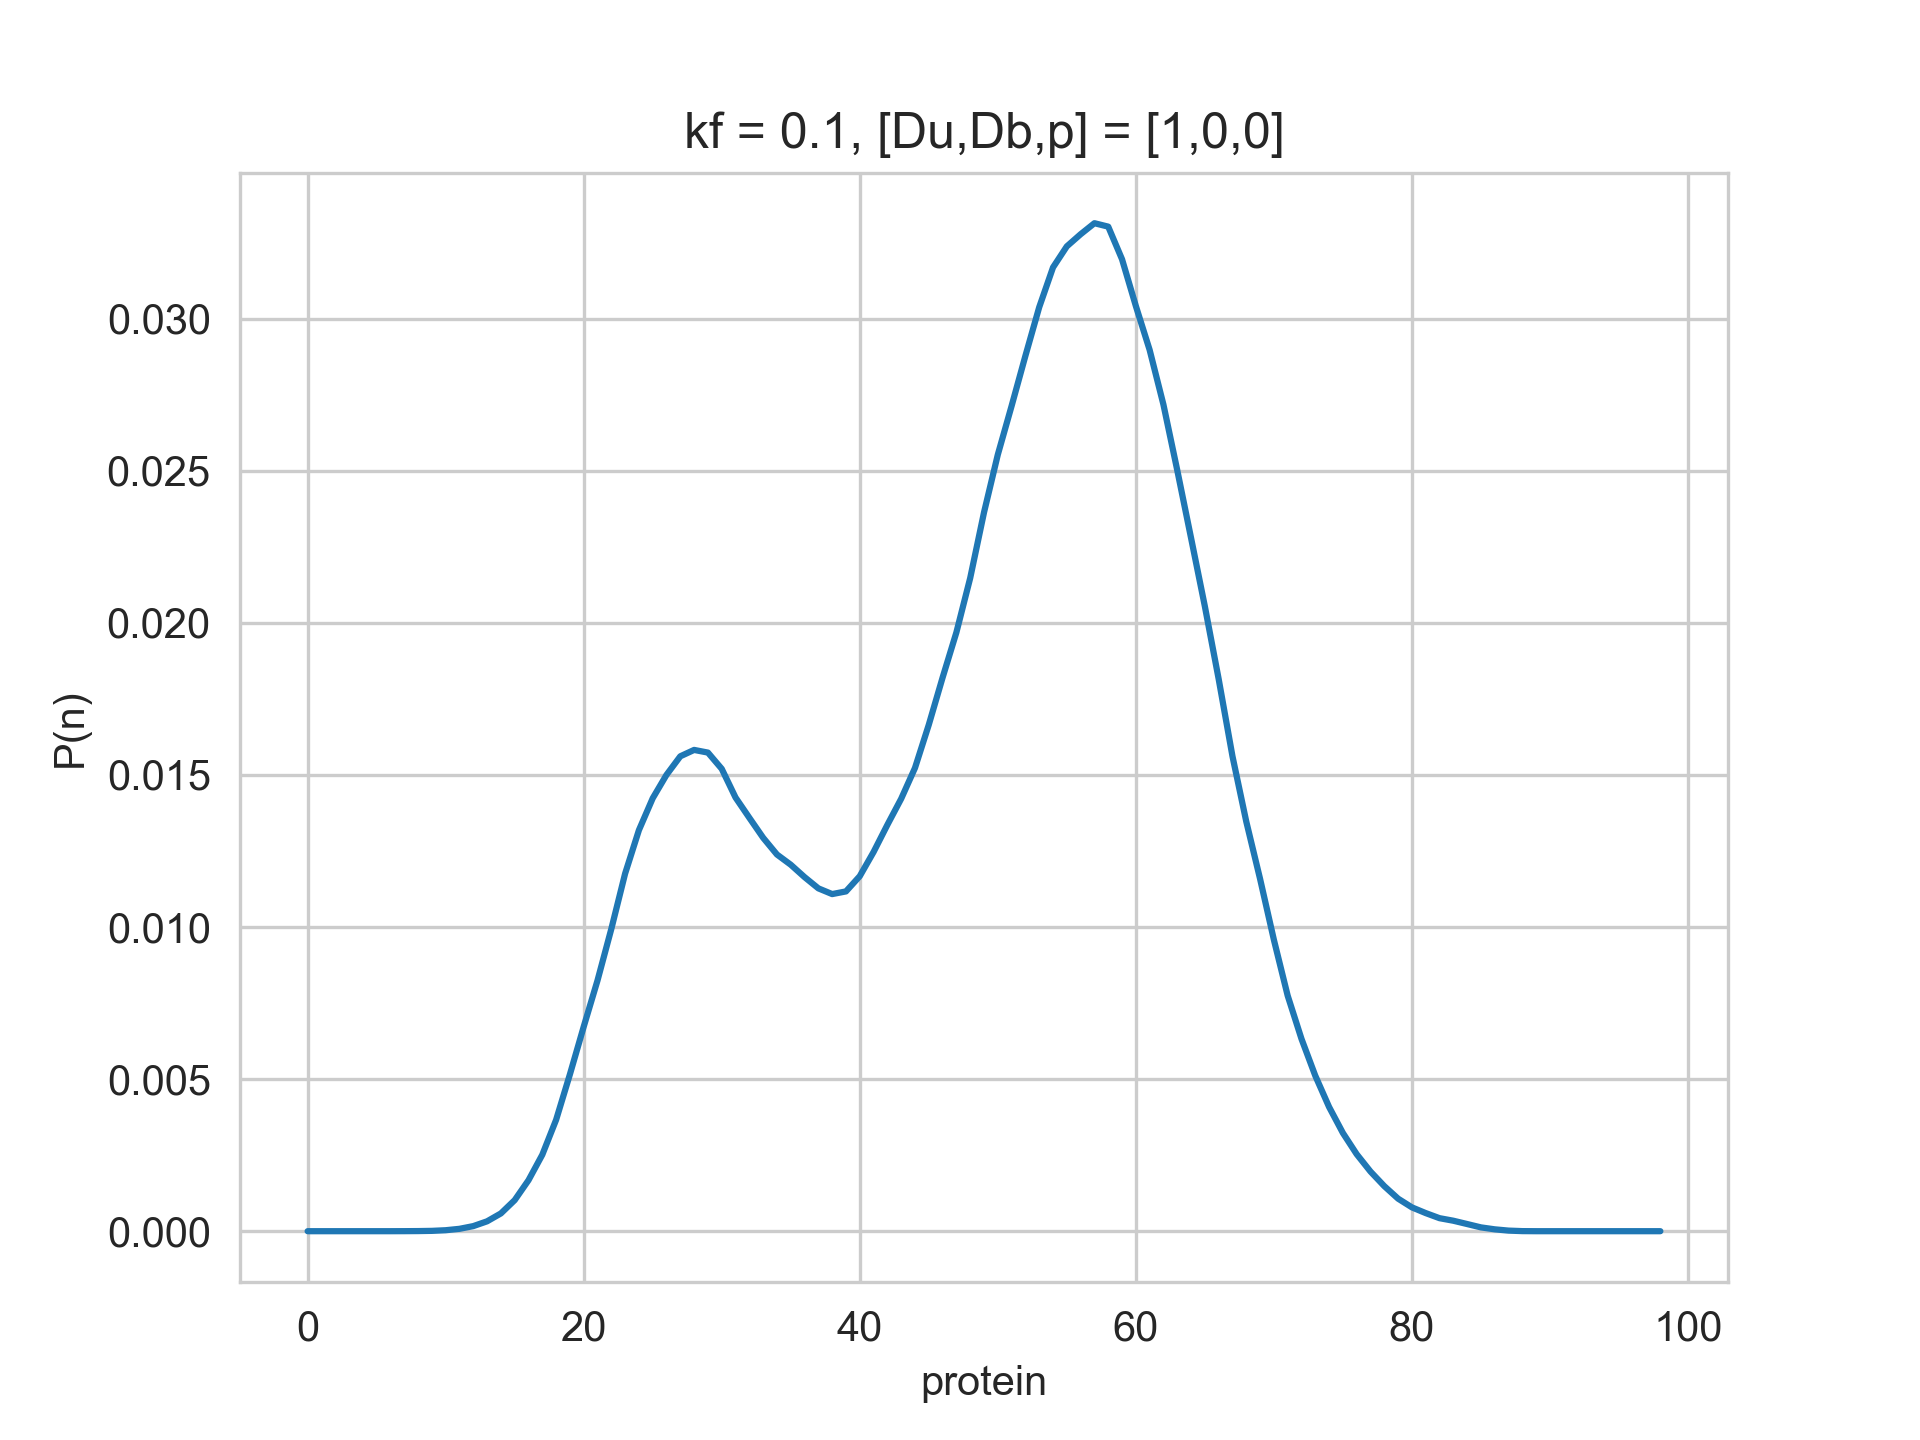
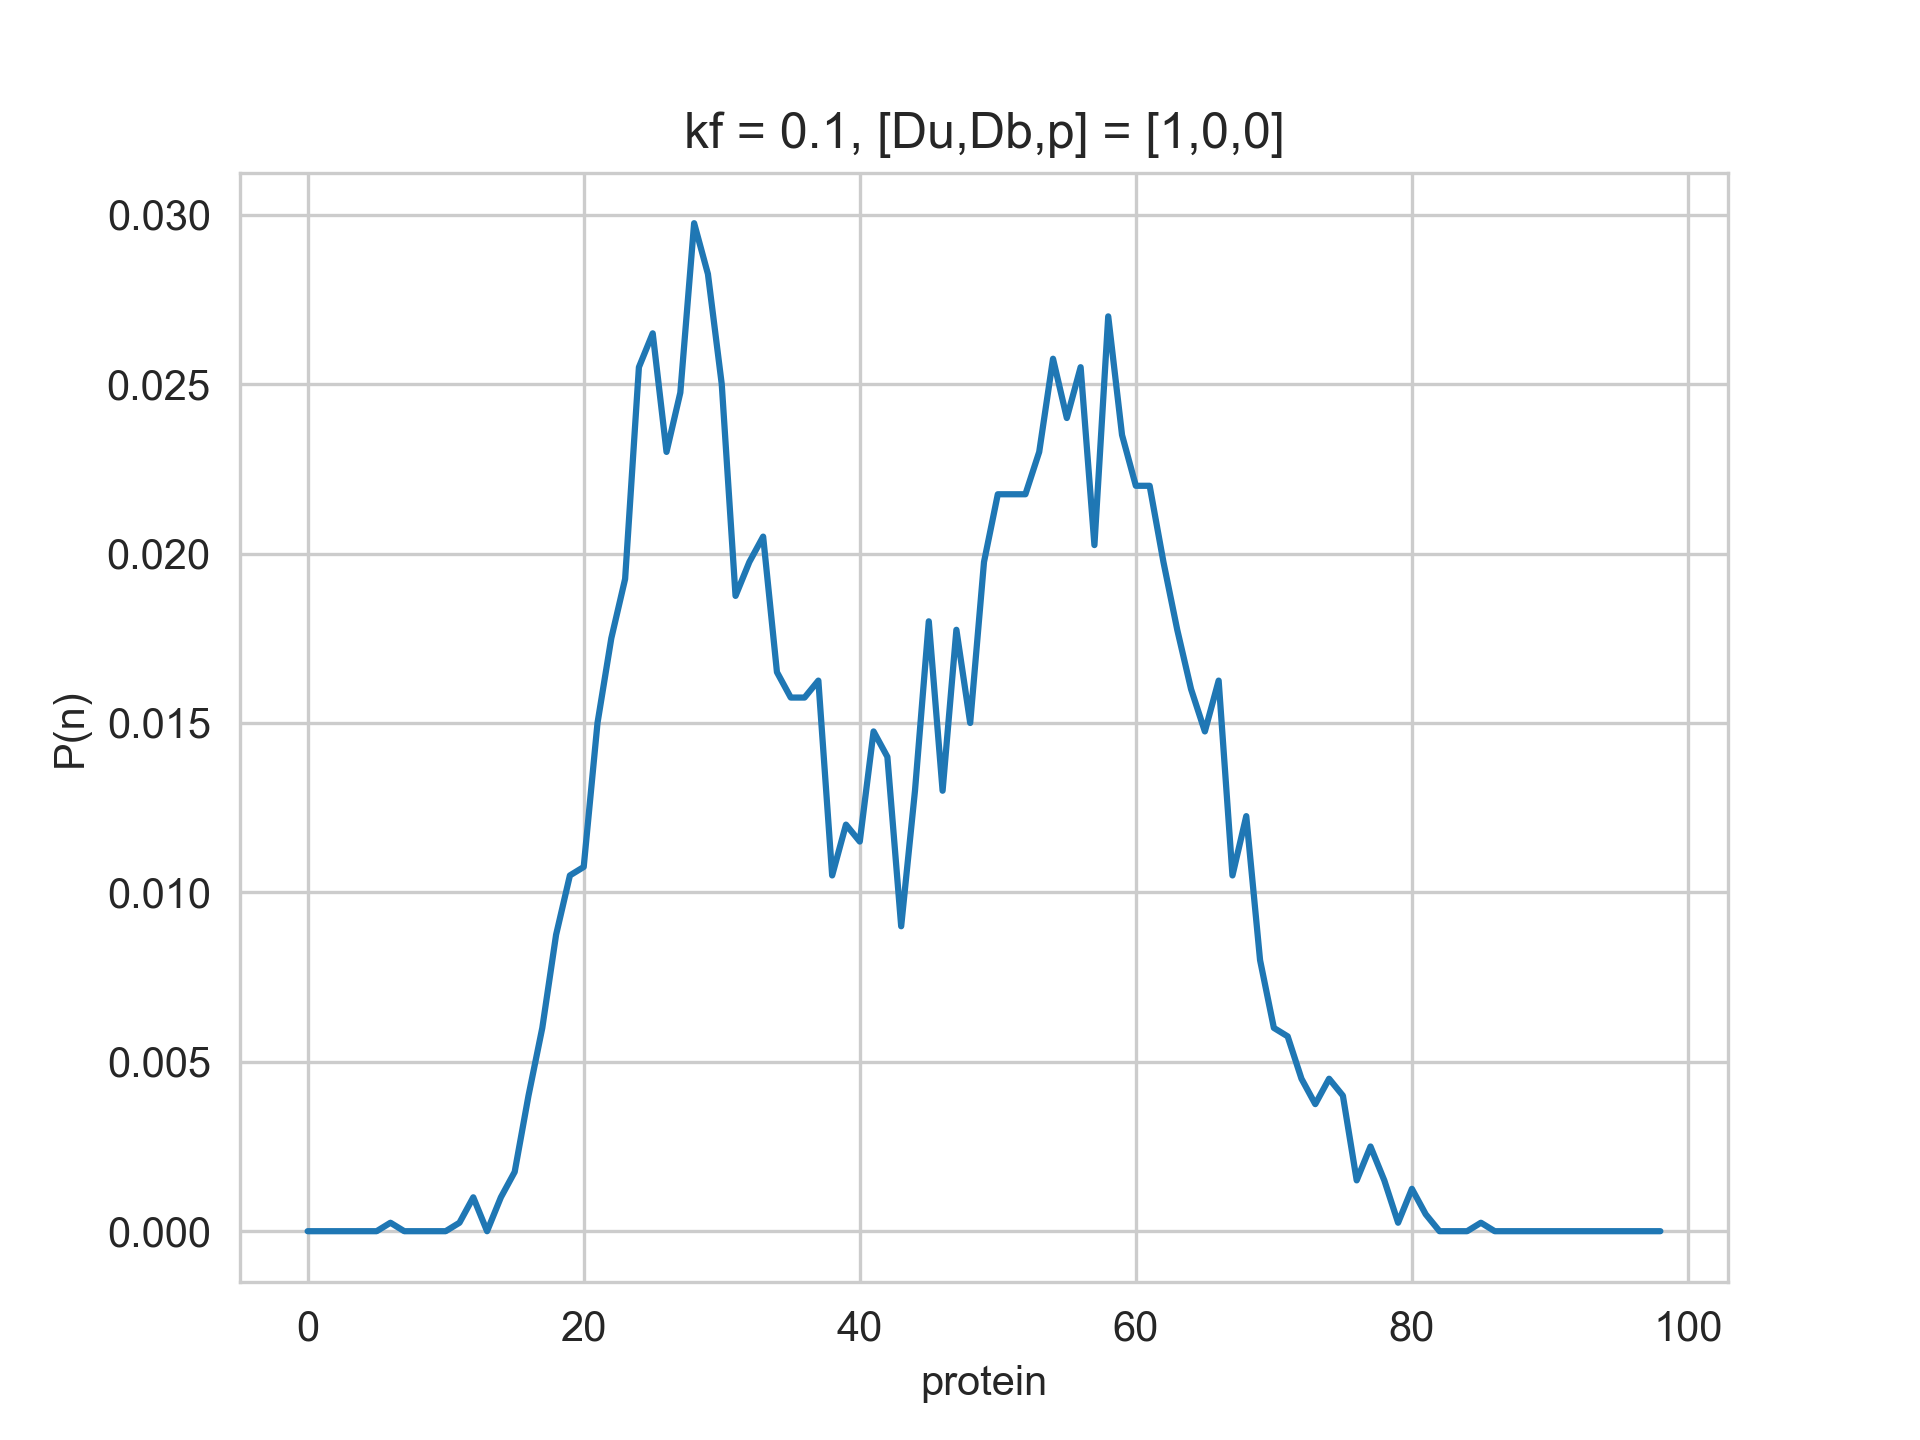
have fixed a problem

diff --git a/examples/geneticFeedbackLoop.py b/examples/geneticFeedbackLoop.py
@@ -18,11 +18,8 @@ from algorithm.simulator import *
 # 6 P->None, kf
 
 # parameters
-rho_u = 60
-sigma_b = .004
-rho_b = 25
-sigma_u = .25
-theta = 0
+rho_u = 60;sigma_b = .004;rho_b = 25;sigma_u = .25;theta = 0
+# rho_u = 60; theta = 0; sigma_b = 0.004 ; rho_b = 5; sigma_u = .5
 kf = 1
 ru = rho_u*kf
 rb = rho_b*kf
@@ -50,32 +47,28 @@ products = np.array([
 # reaction parameters
 rates = np.array([rb, kb, su, ru, sb, kf])
 # intial state
-ss = np.array([1, 1, 0])
+ss = np.array([1, 0, 0])
 # initialize the system
 system = gillespieSystem(3, ss, reactant, products, rates)
 # time to reach steady-state
 t_ss = 20
 # maxtime
-tMax = t_ss*5
+tMax = 21
 # repeat time
-N = 100
+N = 4000
 # data
 n=None
 newHistory = system.simulate(tMax)
-for j in range(newHistory.shape[0]):
-    if newHistory[j, 0] > t_ss:
-        newHistory = newHistory[j:].T[3]
-        n = newHistory
-        break
+n = np.array([])
 
 # loop start
 for i in range(N):
     newHistory = system.simulate(tMax)
     for j in range(newHistory.shape[0]):
         if newHistory[j, 0] > t_ss:
-            print("No.", i+1, "simulation")
             newHistory = newHistory[j:].T[3]
-            n = np.append(n,newHistory)
+            print("No.", i+1, "simulation", newHistory.mean())
+            n = np.append(n,newHistory[-1])
             break
 
 # plot
@@ -88,4 +81,4 @@ ax.set_xlabel("protein")
 ax.set_ylabel("P(n)")
 ax.set_title("kf = 0.1, [Du,Db,p] = [1,0,0]")
 ax.plot(range(0,99), count)
-fig.savefig("output/theta2.png", dpi=300)
+fig.savefig("output/theta.png", dpi=300)
